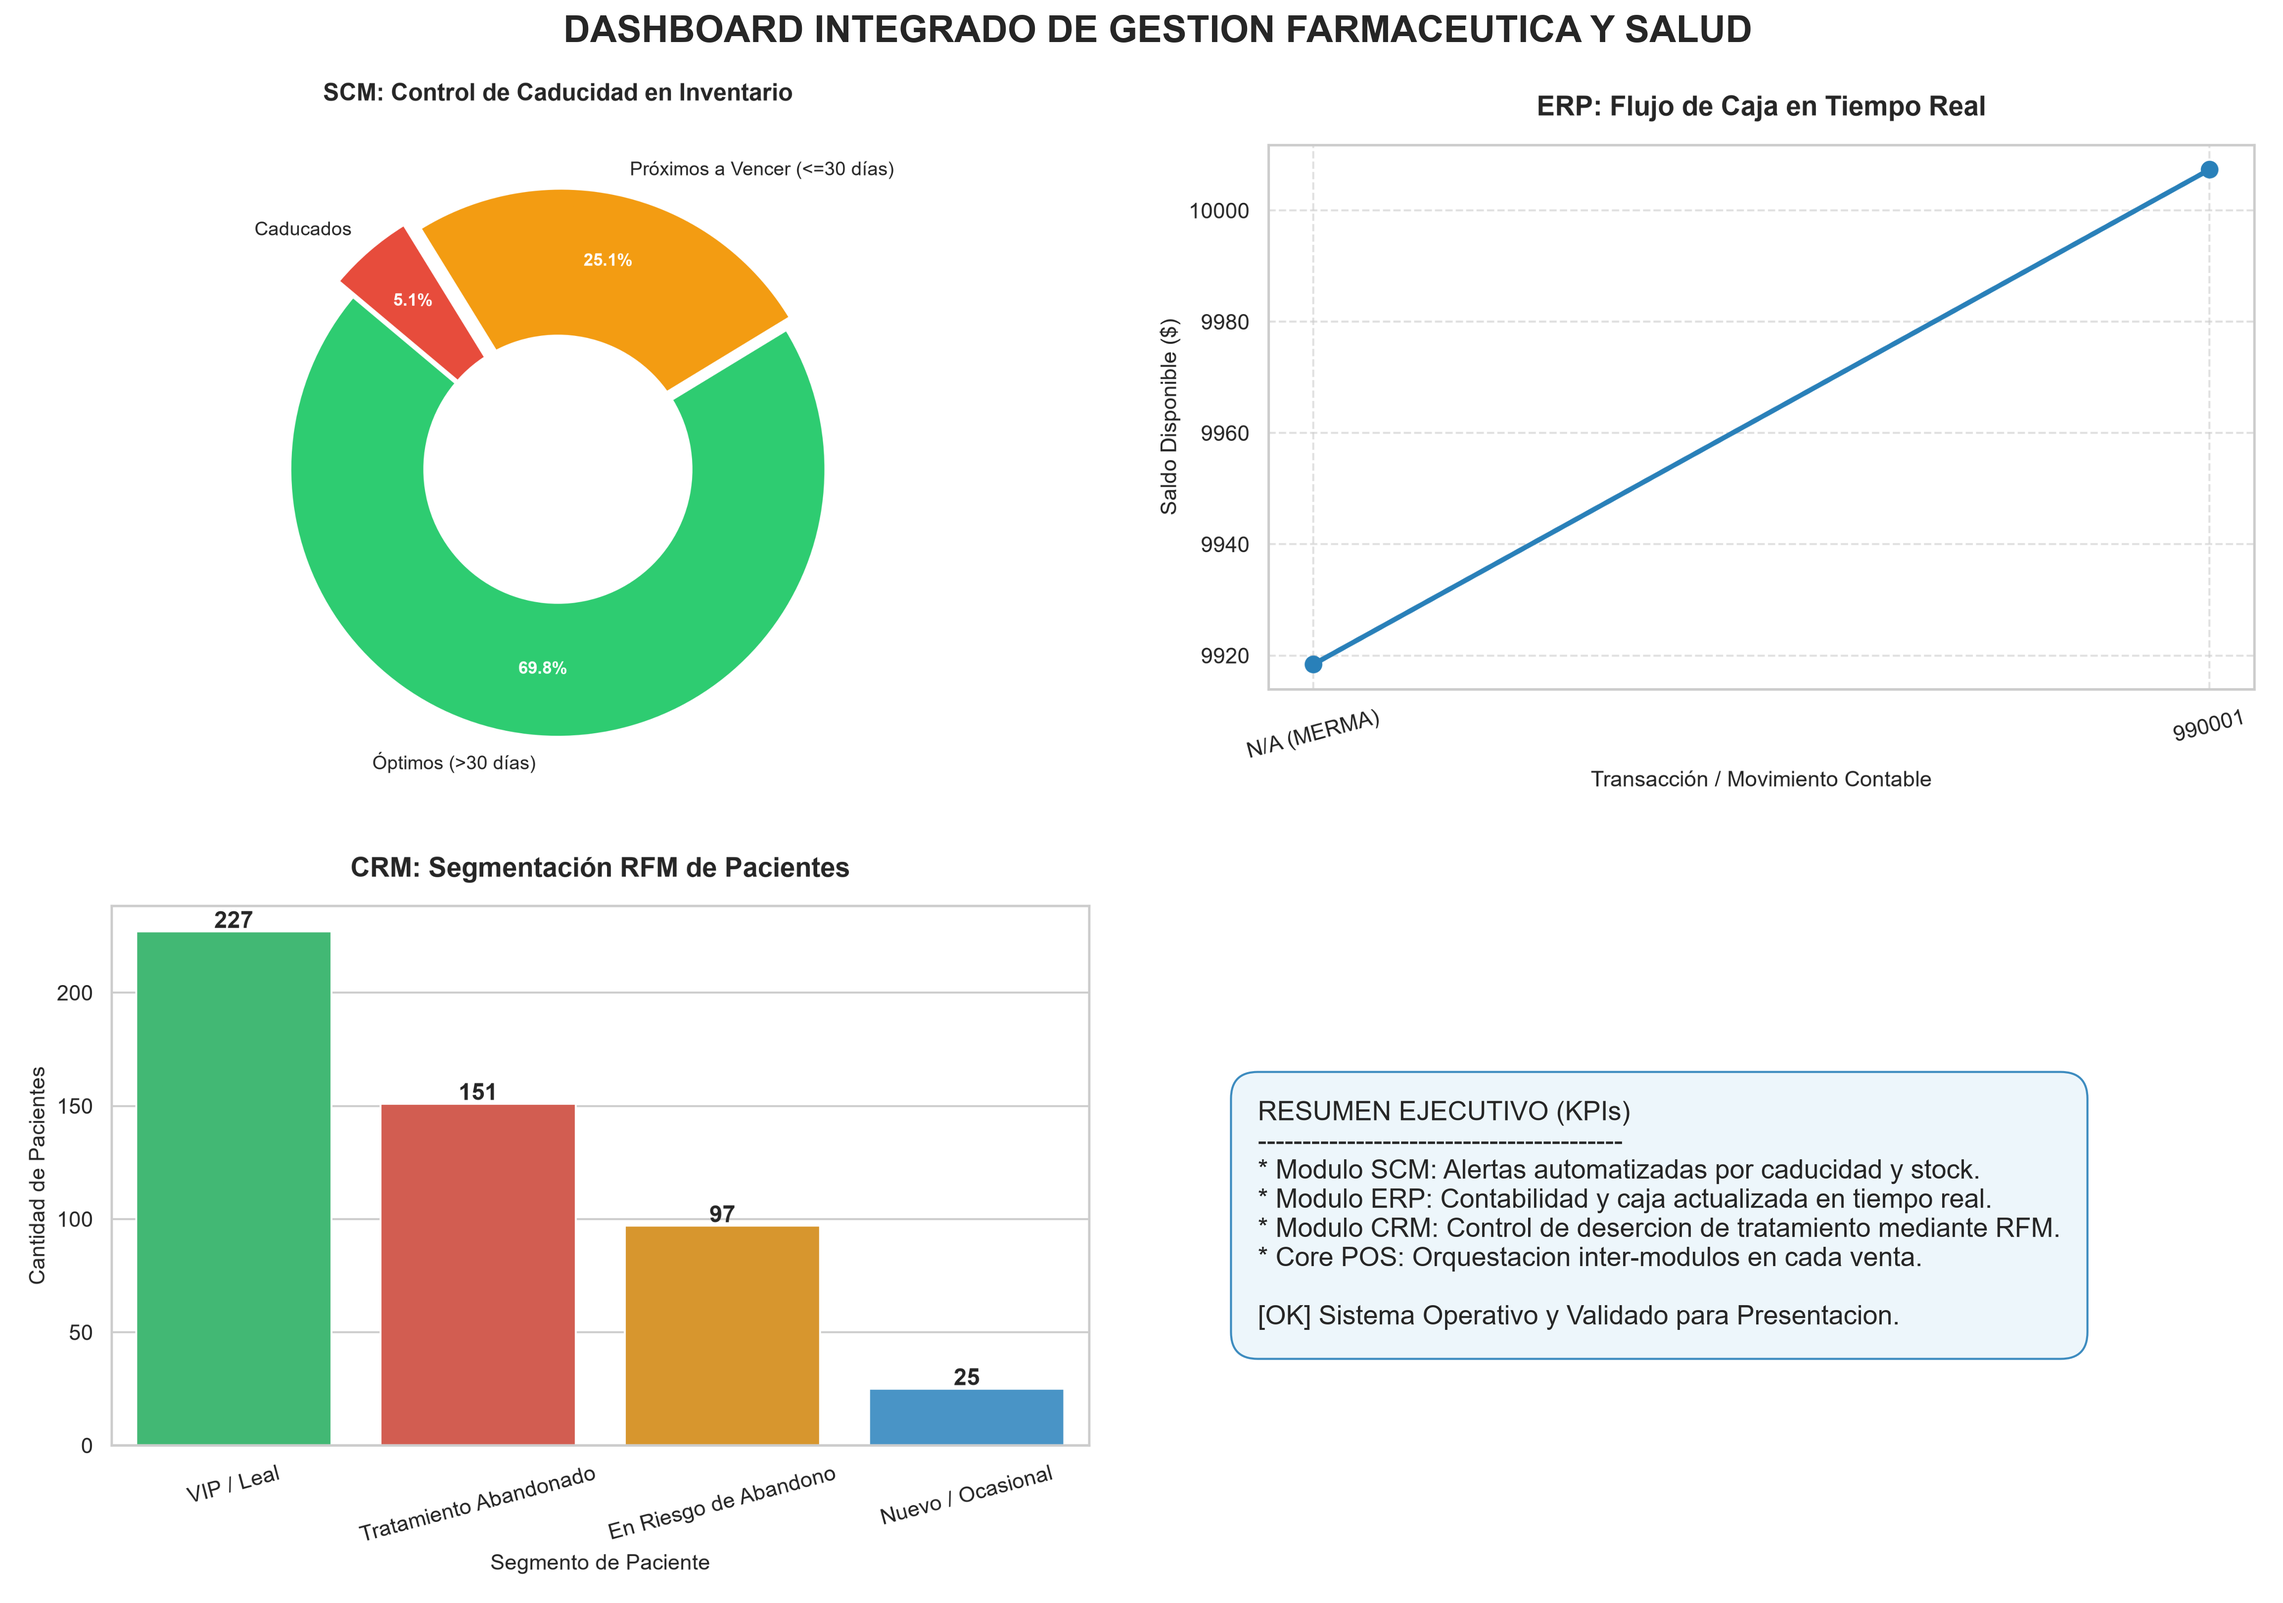
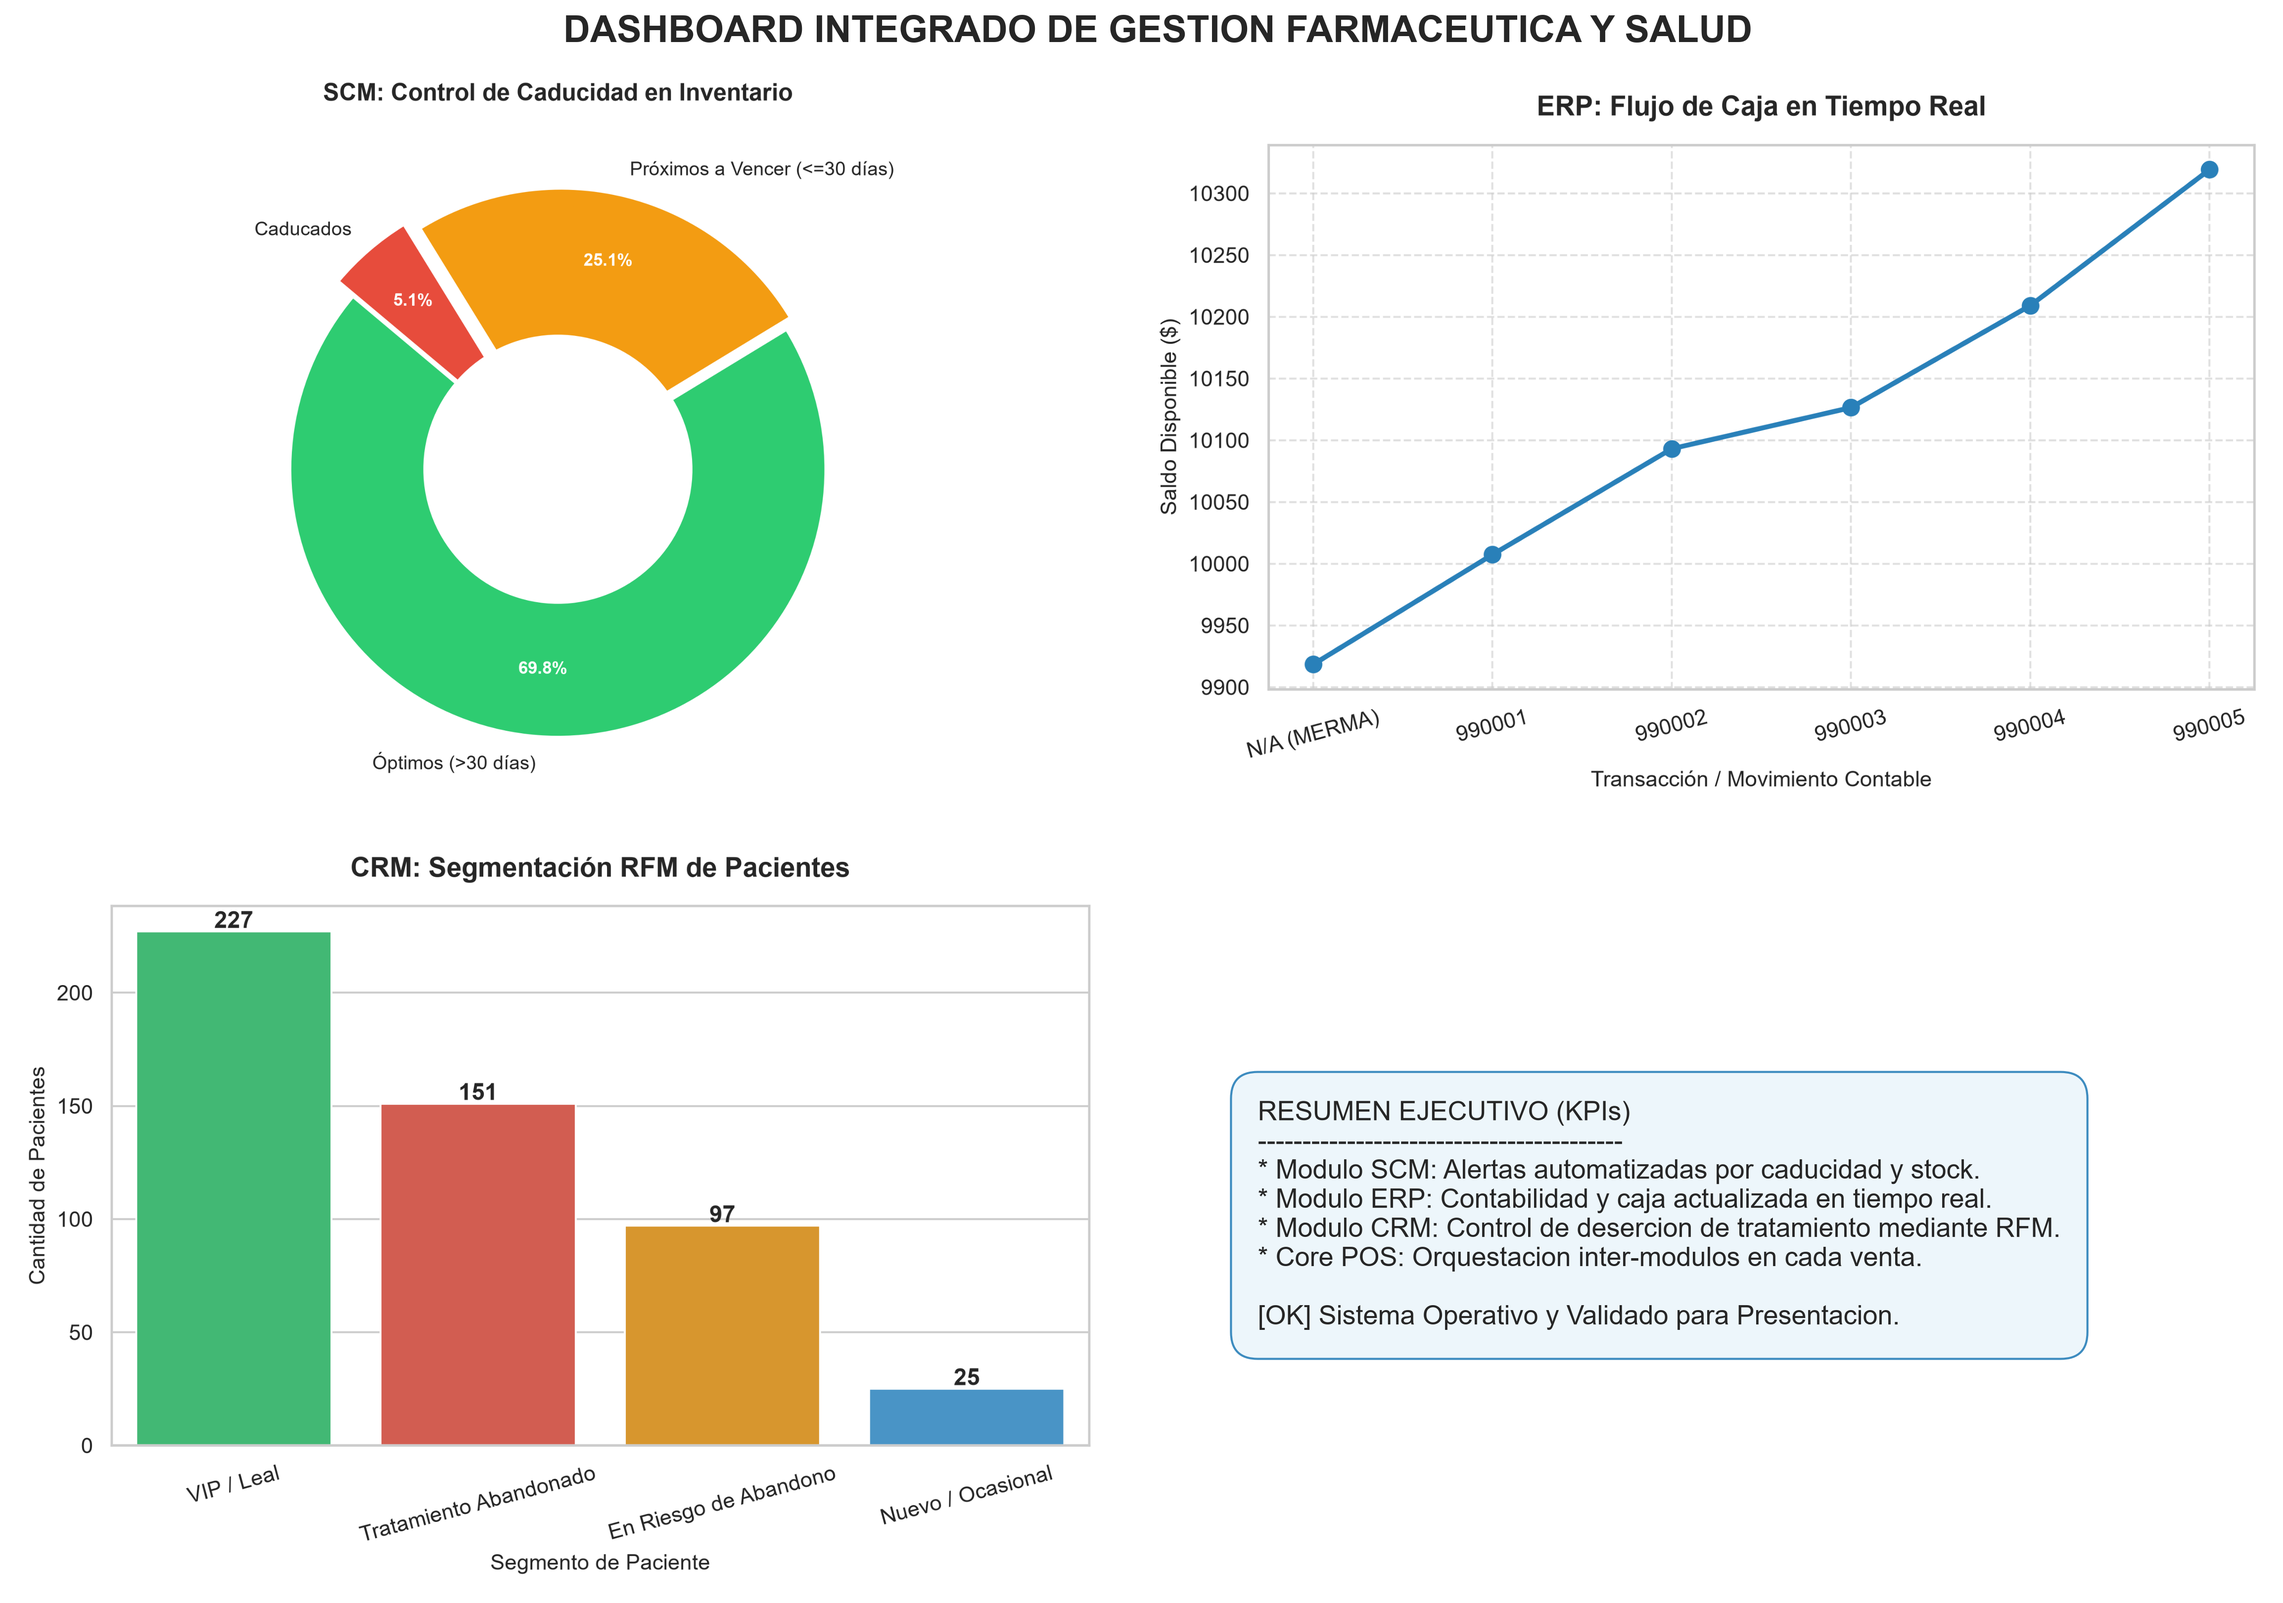
feat: simulación POS ampliada a 5 productos, validación de stock y consumidor final

diff --git a/main.py b/main.py
@@ -58,23 +58,25 @@ def ejecutar_simulacion():
     print("🛒 2. SIMULACIÓN DE DISPENSACIÓN Y VENTAS EN TIEMPO REAL (CORE POS)")
     print("="*75)
     
-    productos_sim = scm.df_inventario.head(2)
-    barcode_1 = productos_sim.iloc[0]['barcode']
-    barcode_2 = productos_sim.iloc[1]['barcode']
+    # Extraer 5 productos del inventario
+    productos_sim = scm.df_inventario.head(5)
     
-    pos.procesar_dispensacion(
-        id_factura=990001,
-        barcode=barcode_1,
-        cantidad=5,
-        id_paciente="PAC-1005"
-    )
-    
-    pos.procesar_dispensacion(
-        id_factura=990002,
-        barcode=barcode_2,
-        cantidad=15,
-        id_paciente="PAC-1012"
-    )
+    # Lista de 5 transacciones para simular
+    simulaciones = [
+        {"factura": 990001, "barcode": productos_sim.iloc[0]['barcode'], "cantidad": 5, "paciente": "PAC-1005"},
+        {"factura": 990002, "barcode": productos_sim.iloc[1]['barcode'], "cantidad": 2, "paciente": "PAC-1012"},
+        {"factura": 990003, "barcode": productos_sim.iloc[2]['barcode'], "cantidad": 1, "paciente": None}, # Consumidor Final
+        {"factura": 990004, "barcode": productos_sim.iloc[3]['barcode'], "cantidad": 3, "paciente": "PAC-1020"},
+        {"factura": 990005, "barcode": productos_sim.iloc[4]['barcode'], "cantidad": 4, "paciente": None}, # Consumidor Final
+    ]
+
+    for sim in simulaciones:
+        pos.procesar_dispensacion(
+            id_factura=sim["factura"],
+            barcode=sim["barcode"],
+            cantidad=sim["cantidad"],
+            id_paciente=sim["paciente"]
+        )
 
     # 4. Evaluación CRM: Riesgo de Deserción / Abandono
     print("\n" + "="*75)
